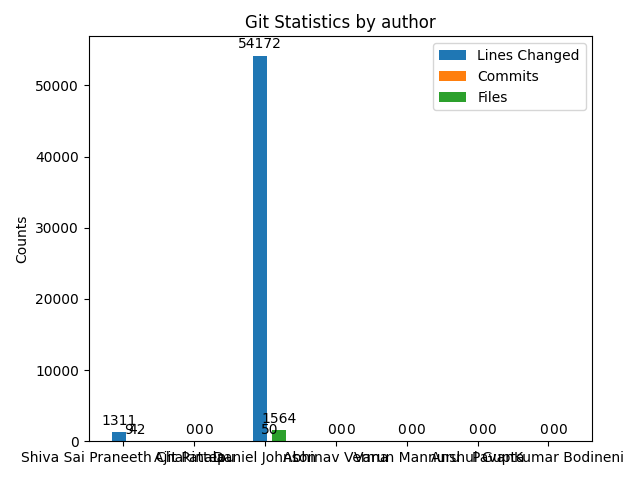
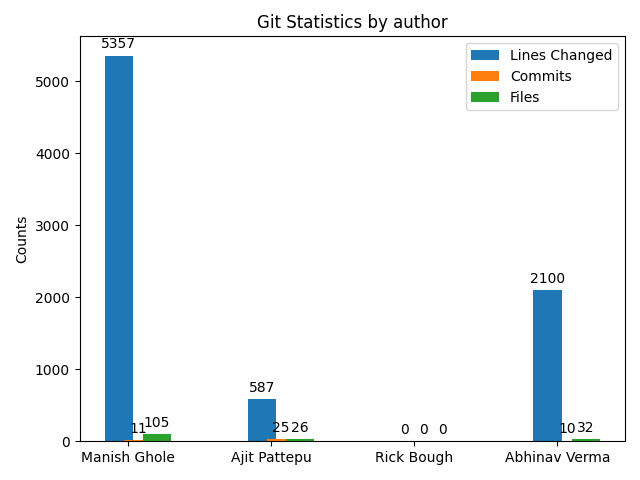
git fame python

diff --git a/GitFame/git-fame.py b/GitFame/git-fame.py
@@ -1,0 +1,128 @@
+import os
+import shutil
+
+import json
+import subprocess
+import re
+import matplotlib.pyplot as plt
+import numpy as np
+
+
+base_dir = os.path.abspath(os.path.dirname(__file__))
+
+with open(os.path.join(base_dir, 'git-fame-input.json'), 'r') as f:
+    data = json.load(f)
+
+def git_clone_or_pull(repo_url, local_path):
+    repo_name = repo_url.split('/')[-1].split('.git')[0]
+    full_local_path = os.path.join(local_path, repo_name)
+
+    if os.path.exists(os.path.join(full_local_path, ".git")):
+        try:
+            subprocess.check_call(["git", "-C", full_local_path, "pull"])
+        except subprocess.CalledProcessError as e:
+            print(f"Error: {e.output}")
+    else:
+        try:
+            subprocess.check_call(["git", "clone", repo_url, full_local_path])
+            branches = subprocess.check_output(["git", "branch", "-r"], cwd=full_local_path,
+                                               universal_newlines=True).split("\n")
+            for branch in branches:
+                if branch and not branch.startswith('origin/HEAD'):
+                    branch_name = branch.split('/')[-1].strip()
+                    subprocess.check_call(["git", "checkout", branch_name], cwd=full_local_path)
+        except subprocess.CalledProcessError as e:
+            print(f"Error: {e.output}")
+
+    return full_local_path
+
+local_path = "repositories"
+
+local_paths = []
+for repo_url in data['repositories']:
+    local_paths.append(git_clone_or_pull(repo_url, local_path))
+
+
+output_data = []
+
+for author in data['authors']:
+    print(author, type(author))
+
+    author_dict = {'authorName': author['authorName'], 'gitStats': []}
+
+    for repo in local_paths:
+        output = subprocess.check_output(["git", "fame", "--since", "2024-01-01", "--ignore-whitespace"], cwd=repo,
+                                         universal_newlines=True)
+        print(output)
+
+        lines_changed_total = commits_total = files_total = 0
+
+        for keyword in author['authorKeywords']:
+            escaped_keyword = re.escape(keyword)
+            pattern = re.compile(rf"\|\s*{escaped_keyword}.*?\|\s*(\d+)\s*\|\s*(\d+)\s*\|\s*(\d+)\s*\|\s*.*?\|")
+
+            match = pattern.search(output)
+
+            if match:
+                print(match)
+                lines_changed, commits, files = map(int, match.groups())
+                lines_changed_total += lines_changed
+                commits_total += commits
+                files_total += files
+
+        author_dict['gitStats'].append({
+            'repository': repo,
+            'numberOfLinesChanged': lines_changed_total,
+            'numberOfCommits': commits_total,
+            'numberOfFiles': files_total
+        })
+
+    output_data.append(author_dict)
+
+with open(os.path.join(base_dir, 'output.json'), 'w') as json_file:
+    json.dump(output_data, json_file, indent=4)
+
+authors = [d['authorName'] for d in output_data]
+lines_changed = [sum(d['gitStats'][i]['numberOfLinesChanged'] for i in range(len(d['gitStats']))) for d in output_data]
+commits = [sum(d['gitStats'][i]['numberOfCommits'] for i in range(len(d['gitStats']))) for d in output_data]
+files = [sum(d['gitStats'][i]['numberOfFiles'] for i in range(len(d['gitStats']))) for d in output_data]
+
+x = np.arange(len(authors))
+
+width = 0.2
+
+fig, ax = plt.subplots()
+
+rects1 = ax.bar(x - width/3, lines_changed, width, label='Lines Changed')
+rects2 = ax.bar(x + width/3, commits, width, label='Commits')
+rects3 = ax.bar(x + width, files, width, label='Files')
+
+
+ax.set_ylabel('Counts')
+ax.set_title('Git Statistics by author')
+ax.set_xticks(x)
+ax.set_xticklabels(authors)
+ax.legend()
+
+def autolabel(rects):
+    for rect in rects:
+        height = rect.get_height()
+        ax.annotate('{}'.format(height),
+                    xy=(rect.get_x() + rect.get_width() / 2, height),
+                    xytext=(0, 3),  # 3 points vertical offset
+                    textcoords="offset points",
+                    ha='center', va='bottom')
+
+autolabel(rects1)
+autolabel(rects2)
+autolabel(rects3)
+
+fig.tight_layout()
+
+plt.savefig(os.path.join(base_dir, 'plot.png'))
+
+plt.show()
+
+for local_repo_path in local_paths:
+    shutil.rmtree(local_repo_path)
+
